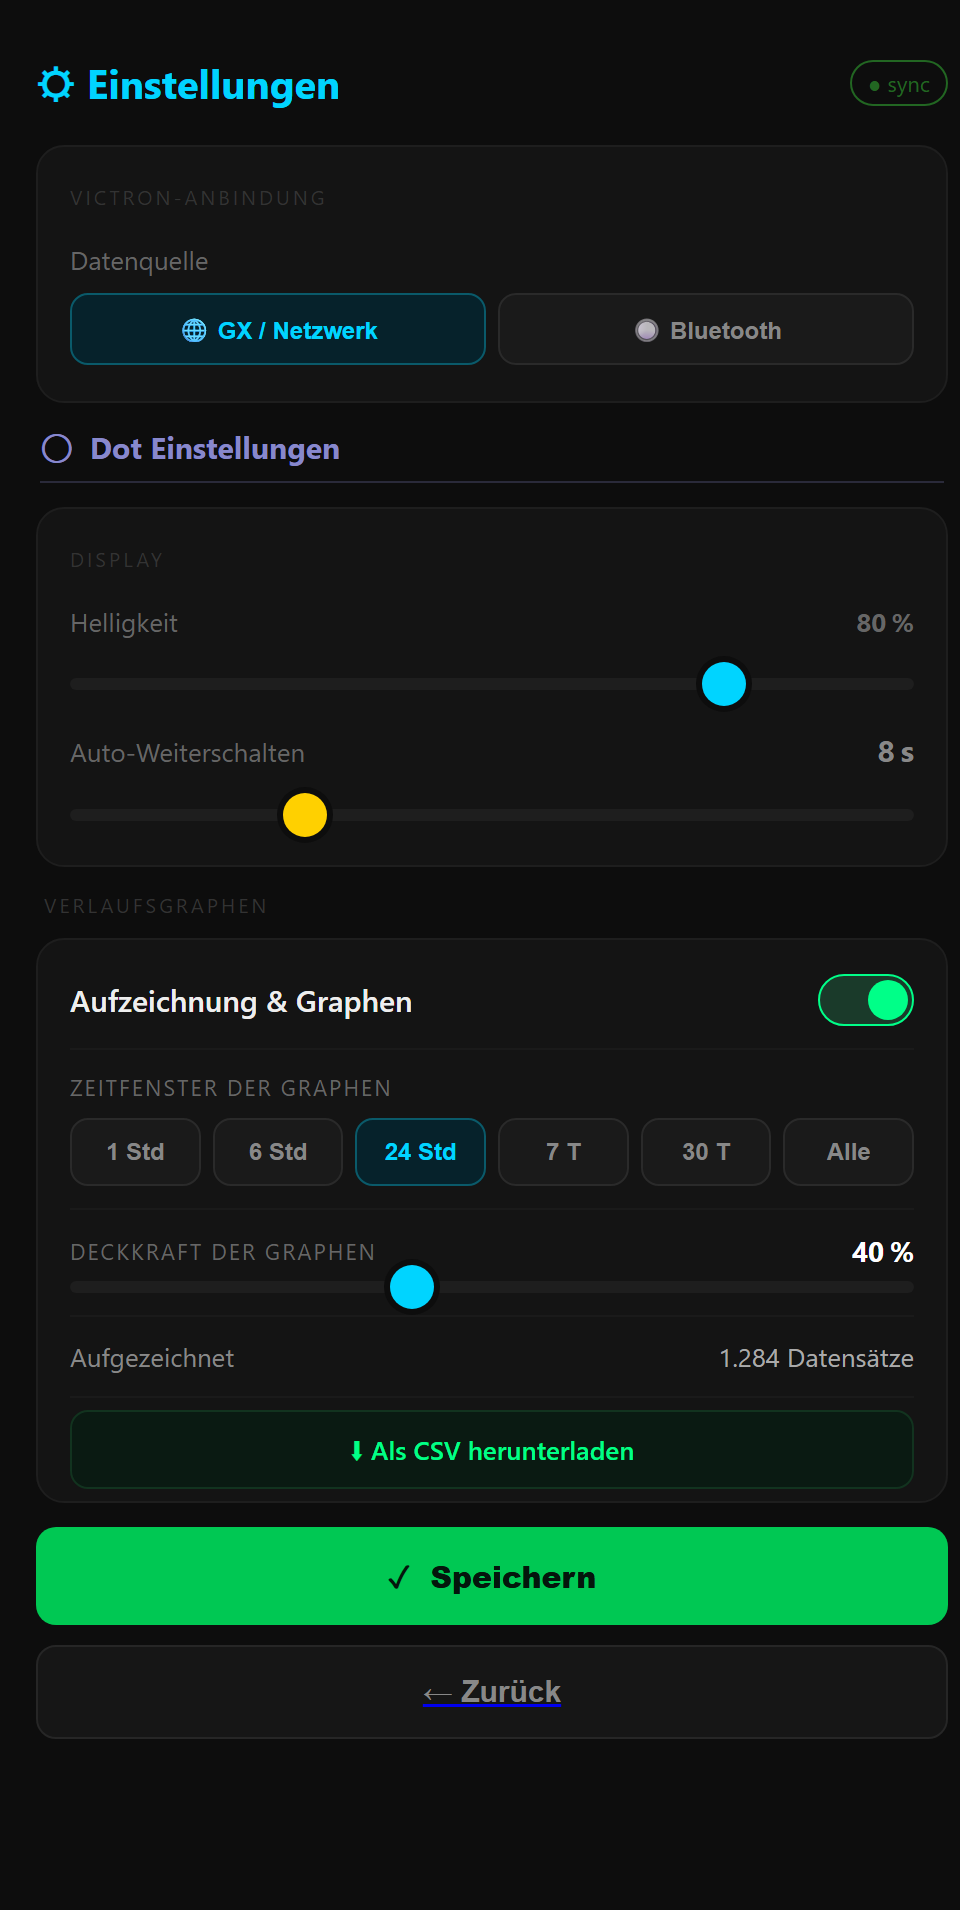
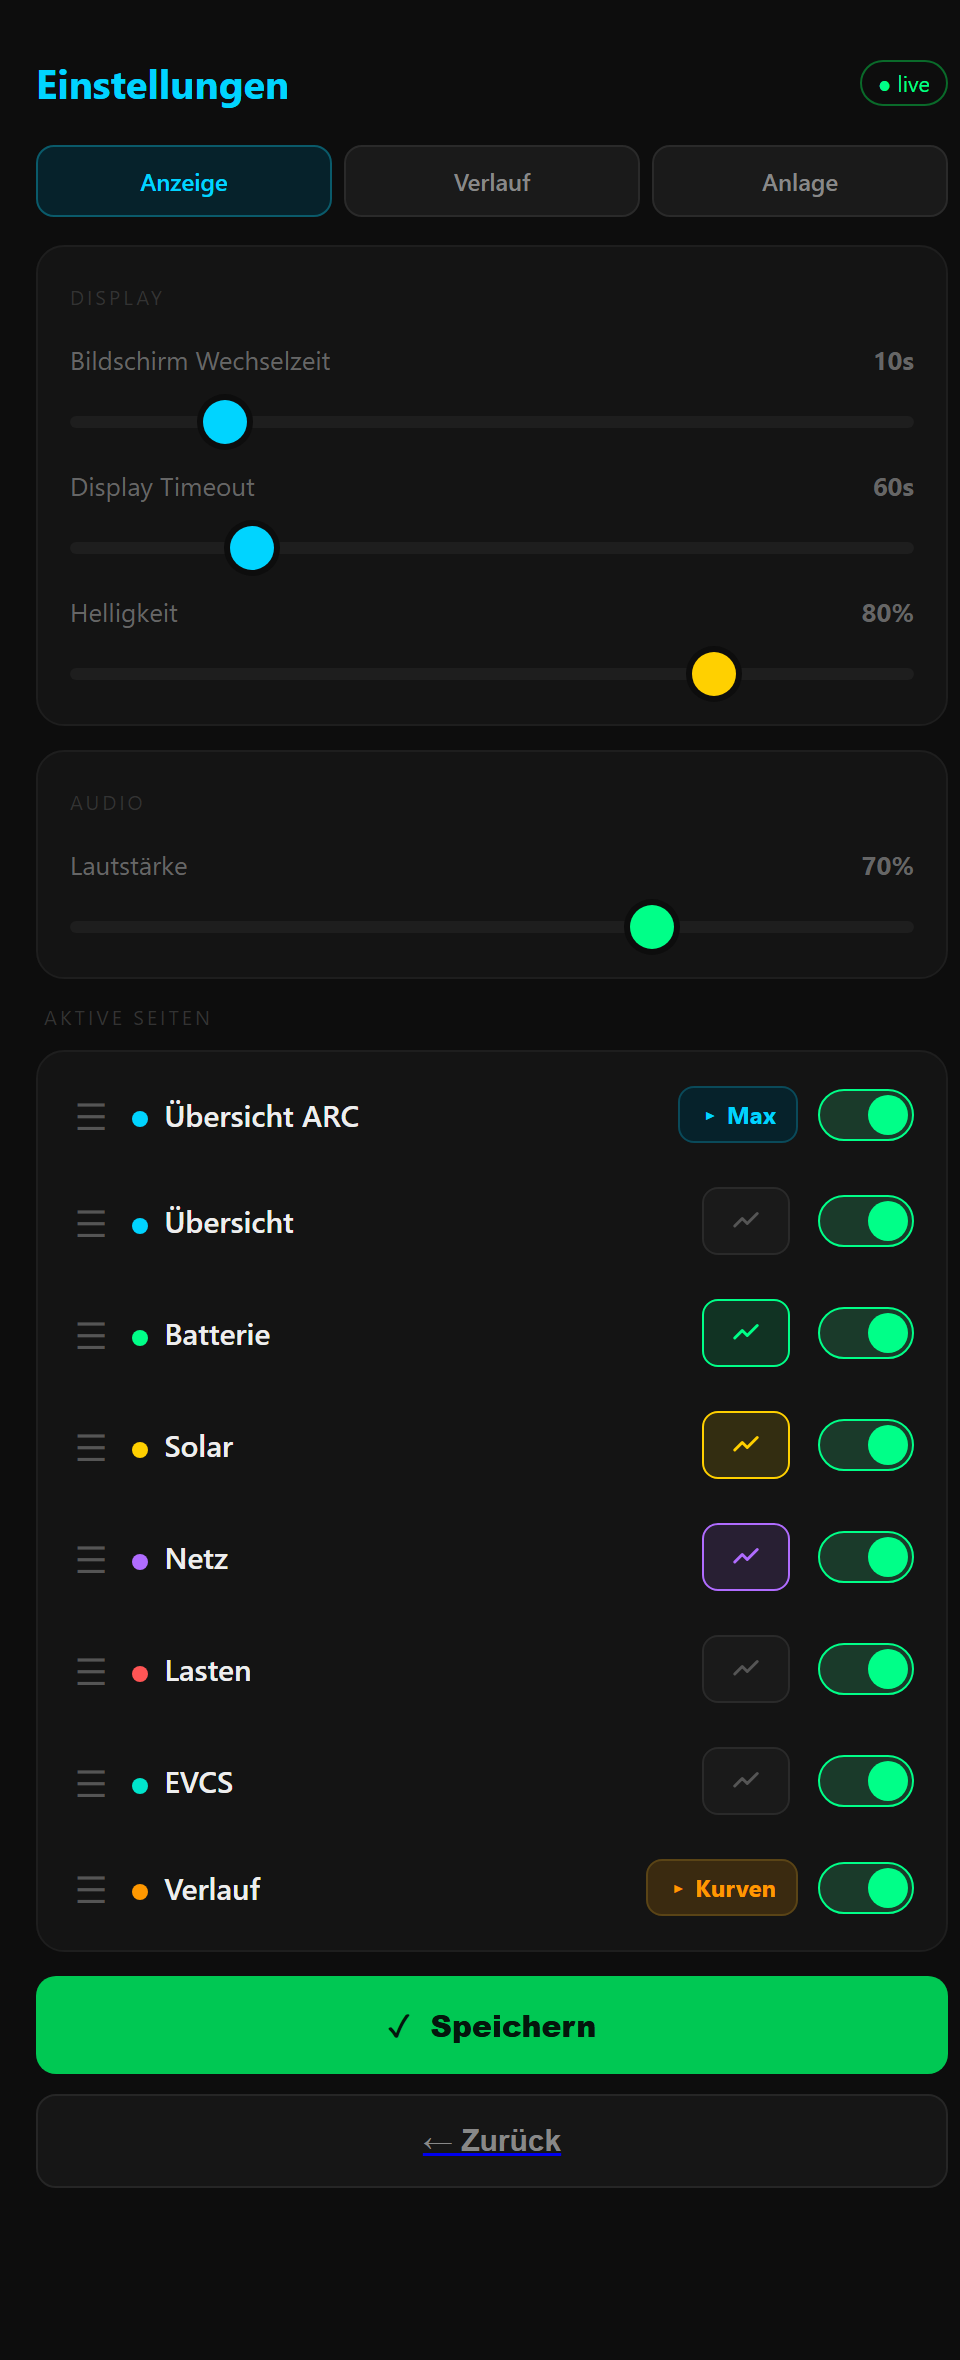
Web-UI-Screenshots fuer 2.4.1-beta neu gerendert (7 Ansichten)
- Dashboard, Einstellungen (Anzeige), Schreibschutz (Anlage), Firmware,
  Bluetooth-Direktmodus, Anleitung, Ersteinrichtung
- aus dem aktuellen Quellcode rekonstruiert, emoji-frei, konsistente Mock-Werte
- README-Tabelle von 3 auf 7 Bilder erweitert; alte WEB_UI_1/3 entfernt

diff --git a/README.md b/README.md
@@ -32,9 +32,13 @@ Web-Flash-Tool. Der Firmware-Quellcode bleibt privat.
 
 ## Web-Oberflaeche
 
-| Dashboard | Einstellungen | Firmware-Update |
+| Dashboard | Einstellungen | Schreibschutz & PIN |
 |---|---|---|
-| ![Dashboard](images/WEB_UI_1.png) | ![Einstellungen](images/WEB_UI_2_Einstellungen.png) | ![Firmware-Update](images/WEB_UI_3_Firmware.png) |
+| ![Dashboard](images/WEB_UI_1_Dashboard.png) | ![Einstellungen](images/WEB_UI_2_Einstellungen.png) | ![Schreibschutz](images/WEB_UI_3_Schreibschutz.png) |
+| **Firmware-Update** | **Bluetooth-Direktmodus** | **Anleitung** |
+| ![Firmware](images/WEB_UI_4_Firmware.png) | ![Bluetooth](images/WEB_UI_5_Bluetooth.png) | ![Anleitung](images/WEB_UI_6_Anleitung.png) |
+| **Ersteinrichtung** | | |
+| ![Setup](images/WEB_UI_7_Setup.png) | | |
 
 ---
 